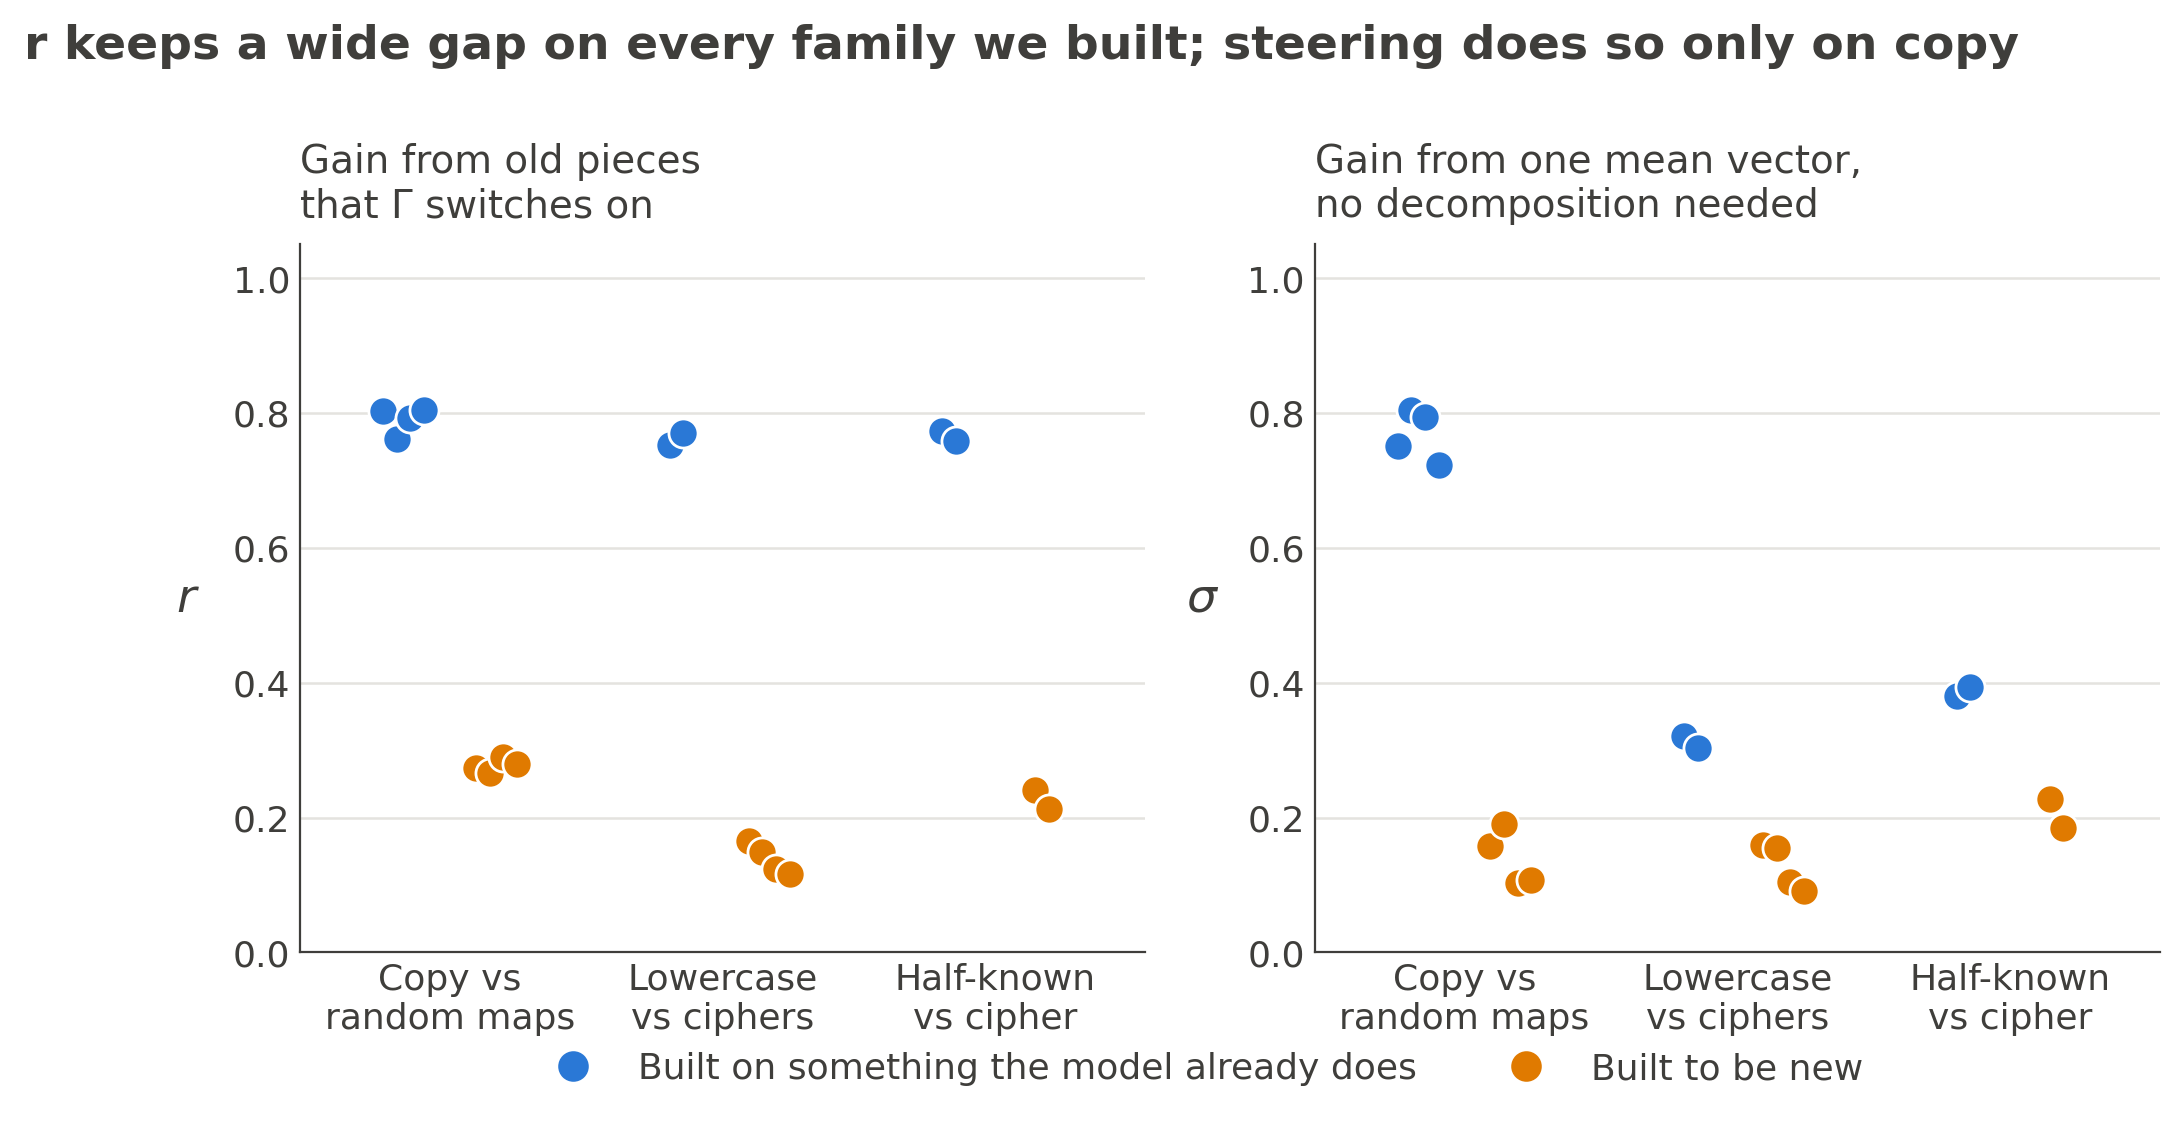
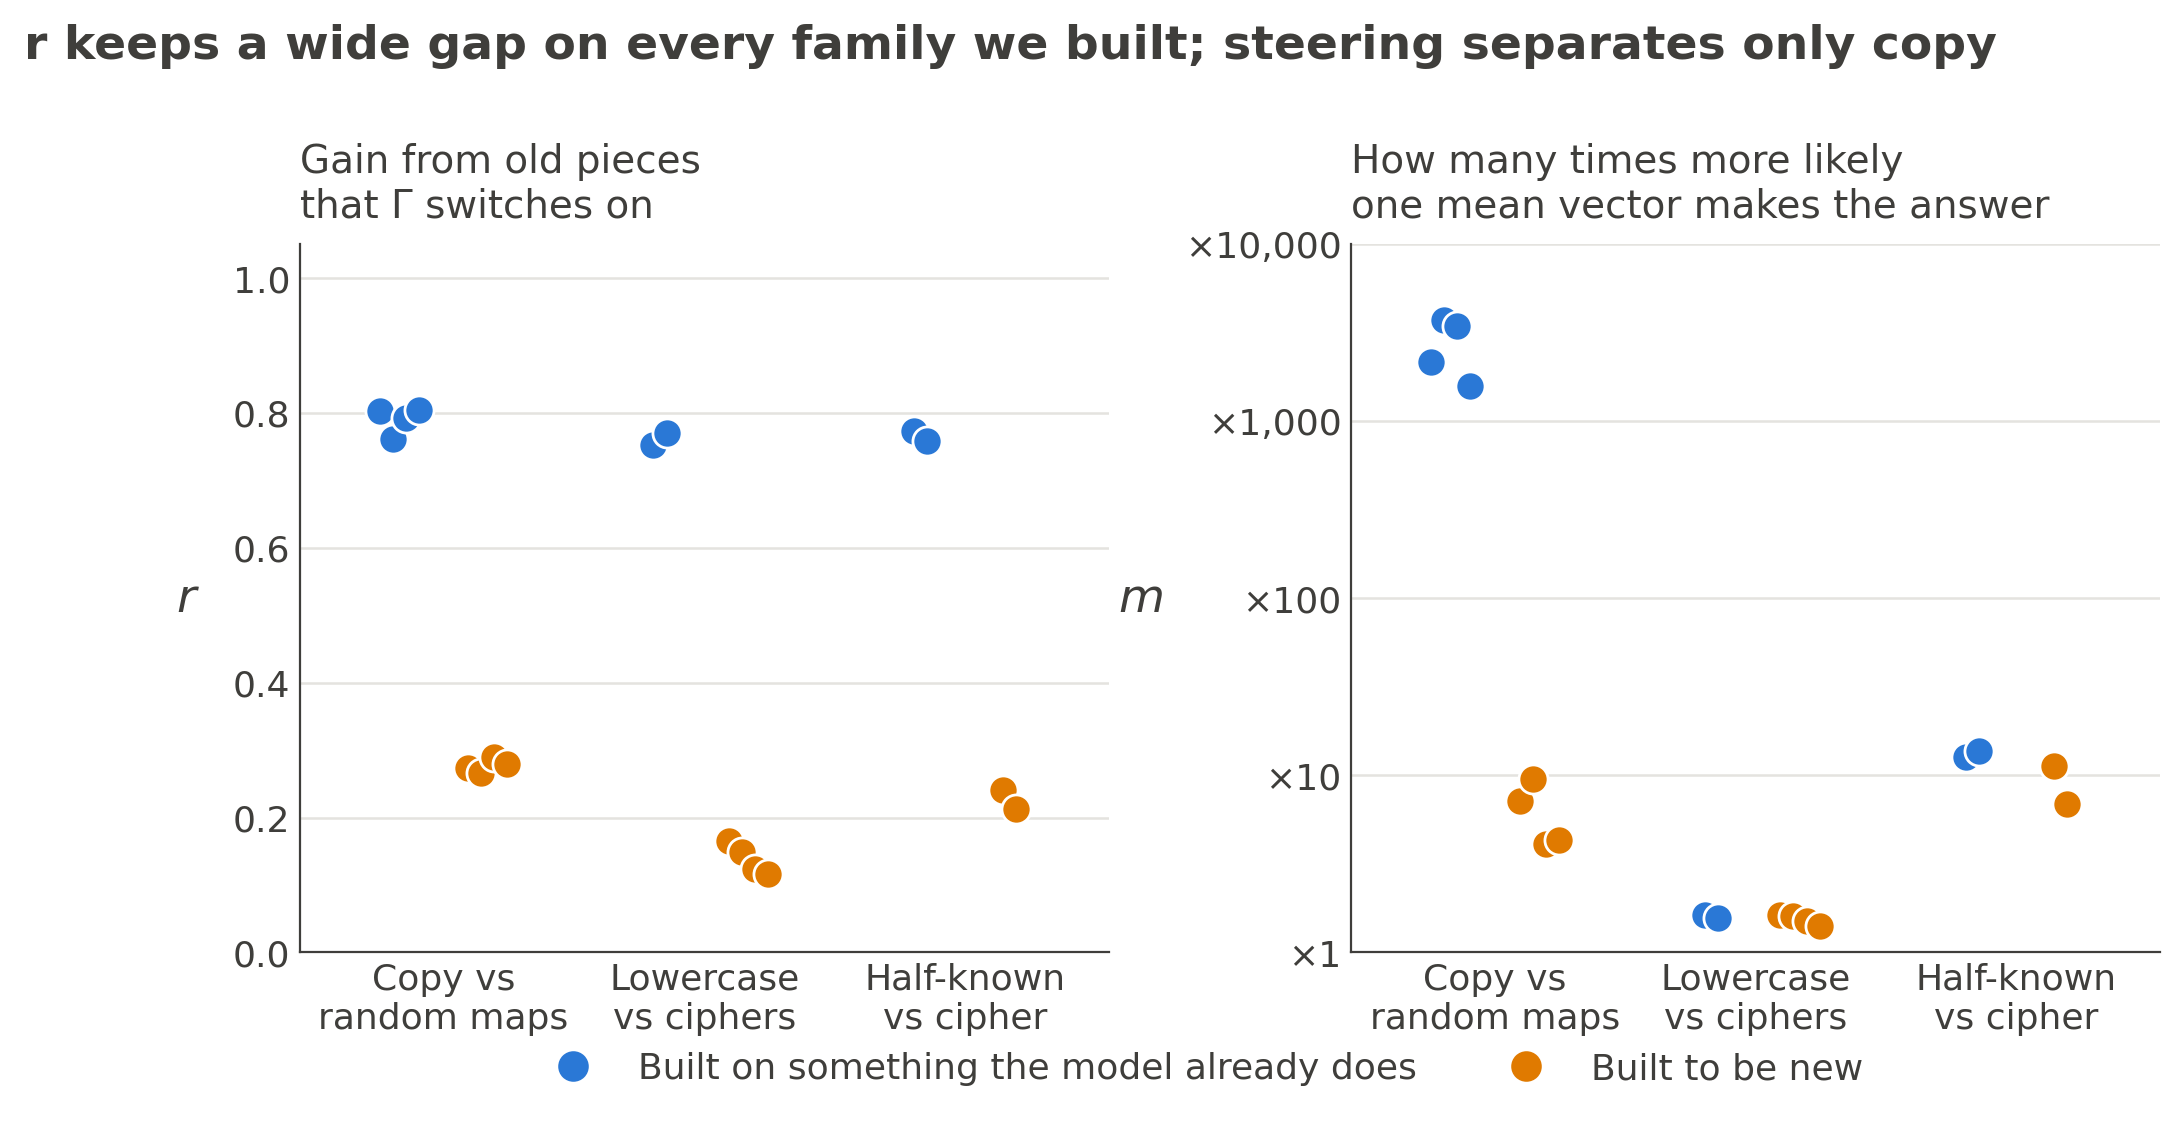
Q2 slide: replace steering share with the multiple m
The share's gap on lowercase and half-known came from its denominator; m reports
how many times more likely one mean vector makes the answer, from saved results.

diff --git a/experiments/open_pair/plot_q2_deck.py b/experiments/open_pair/plot_q2_deck.py
@@ -1,7 +1,8 @@
 """The Q2 slide's figures (new against existing), from saved results only, with no model.
 
 Axis symbols are the research log's route split (techniques section): F full model, M_ab pieces C_a under gates g_b, S pieces
-with every gate open, each a mean log-odds. Results keep their old keys: the steering share sigma is "S", the overlap omega "S_R".
+with every gate open, each a mean log-odds. Results keep their old keys: the steering share is "S", the overlap omega "S_R". The steering multiple m is
+exp(S * G_score), the same read with the fine-tune's rise left in: the factor by which one mean vector raises the answer's geometric-mean probability.
 
   q2_routes.png        E12: outside share, r and the masked-off share, copy tasks against random maps
   q2_every_family.png  E60: r and steering on three task families, built to reuse against built to be new
@@ -14,6 +15,7 @@ Usage (repo root):  ~/commute-agents/fleet/cpu-run python experiments/open_pair/
 from __future__ import annotations
 
 import json
+import math
 from pathlib import Path
 from typing import Any
 
@@ -83,28 +85,49 @@ def routes() -> None:
     save(fig, "q2_routes.png")
 
 
+def steering_multiples(runs: dict[str, Any]) -> dict[str, float]:
+    """m = exp(S * G_score) per E60 run, each S with the gain it was divided by (scoring half, log probability)."""
+    b = json.loads((ROOT / "experiments/baseline_neurons/results/baseline_neurons.json").read_text())["gains"]
+    s1 = json.loads((ROOT / "experiments/regating_truth_table/results/stage1.json").read_text())["rows"]
+    s2 = json.loads((ROOT / "experiments/keydependent_elicit/results/stage2.json").read_text())["states"]
+    out = {}
+    for k, v in runs.items():
+        family, name = k.split("/")
+        G = {"e46": lambda: b[name], "e53": lambda: s1[k], "e54": lambda: s2[name]}[family]()["G_score"]
+        out[k] = math.exp(v["S"]["value"] * G)
+    return out
+
+
 def every_family() -> None:
     runs = json.loads((ROOT / "experiments/regating_truth_table/results/table.json").read_text())["runs"]
+    multiples = steering_multiples(runs)
     families = (("Copy vs\nrandom maps", ("e46/ident32",), ("e46/rand32",)),
                 ("Lowercase\nvs ciphers", ("e53/lowercase",), ("e53/cipher", "e53/broad_cipher")),
                 ("Half-known\nvs cipher", ("e54/elicit",), ("e54/cipher",)))
-    fig, axes = plt.subplots(1, 2, figsize=(12, 4.6), sharey=True)
-    for ax, key, title in zip(axes, ("r", "S"), ("Gain from old pieces\nthat Γ switches on", "Gain from one mean vector,\nno decomposition needed")):
+    fig, axes = plt.subplots(1, 2, figsize=(12, 4.6))
+    panels = ((lambda k: runs[k]["r"]["value"], "Gain from old pieces\nthat Γ switches on"),
+              (lambda k: multiples[k], "How many times more likely\none mean vector makes the answer"))
+    for ax, (value, title) in zip(axes, panels):
         for x, (_, reuse, new_side) in enumerate(families):
             for prefixes, color, centre in ((reuse, BLUE, x - 0.17), (new_side, ORANGE, x + 0.17)):
-                values = [v[key]["value"] for k, v in runs.items() if k.rsplit("_s", 1)[0].removesuffix("b") in prefixes or k.rsplit("_s", 1)[0] in prefixes]
-                spread = [centre + 0.05 * (i - (len(values) - 1) / 2) for i in range(len(values))]
-                ax.scatter(spread, values, s=110, color=color, edgecolor="white", lw=1, zorder=3)
+                keys = [k for k in runs if k.rsplit("_s", 1)[0].removesuffix("b") in prefixes or k.rsplit("_s", 1)[0] in prefixes]
+                spread = [centre + 0.05 * (i - (len(keys) - 1) / 2) for i in range(len(keys))]
+                ax.scatter(spread, [value(k) for k in keys], s=110, color=color, edgecolor="white", lw=1, zorder=3)
         ax.set_xticks(range(3), [f[0] for f in families])
         ax.set_xlim(-0.55, 2.55)
-        ax.set_ylim(0, 1.05)
         clean(ax, title, "y")
-        ax.tick_params(labelleft=True)
-        symbol(ax, "$r$" if key == "r" else r"$\sigma$")
+    axes[0].set_ylim(0, 1.05)
+    symbol(axes[0], "$r$")
+    axes[1].set_yscale("log")
+    axes[1].set_ylim(1, 10000)
+    axes[1].set_yticks([1, 10, 100, 1000, 10000], ["×1", "×10", "×100", "×1,000", "×10,000"])
+    axes[1].minorticks_off()
+    symbol(axes[1], "$m$")
+    fig.subplots_adjust(wspace=0.3)
     handles = [plt.Line2D([], [], marker="o", ls="", ms=10, color=BLUE, label="Built on something the model already does"),
                plt.Line2D([], [], marker="o", ls="", ms=10, color=ORANGE, label="Built to be new")]
     fig.legend(handles=handles, loc="lower center", ncol=2, frameon=False, bbox_to_anchor=(0.5, -0.07))
-    headline(fig, "r keeps a wide gap on every family we built; steering does so only on copy")
+    headline(fig, "r keeps a wide gap on every family we built; steering separates only copy")
     save(fig, "q2_every_family.png")
 
 
